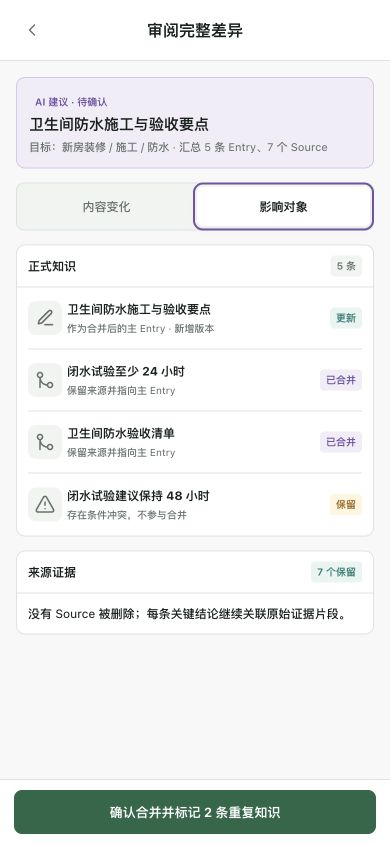
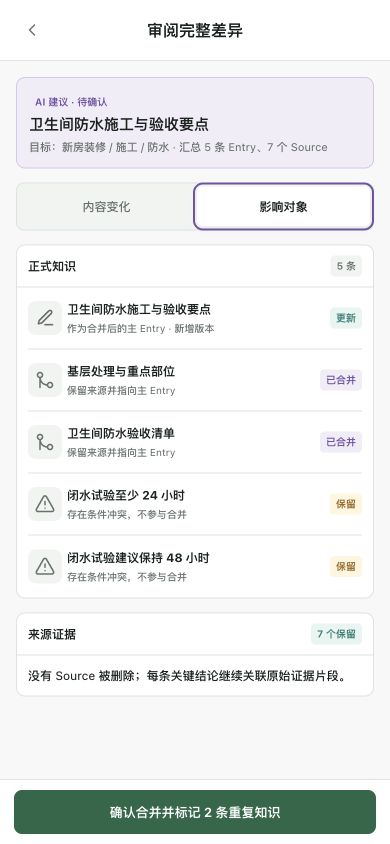
fix: 完善移动 Agent 原型交互细节

diff --git a/docs/prototypes/grove-mobile-agent-prototype.html b/docs/prototypes/grove-mobile-agent-prototype.html
@@ -368,6 +368,13 @@
     .entry-summary { padding: 10px 11px; border: 1px solid var(--g-border); border-radius: 8px; background: var(--g-bg); font-size: 12px; line-height: 20px; }
     .source-context { margin-top: 8px; color: var(--g-muted); font-size: 11px; line-height: 18px; }
     .source-meta { display: grid; gap: 7px; margin-top: 13px; padding-top: 12px; border-top: 1px solid var(--g-border); color: var(--g-muted); font-size: 11px; }
+    .source-pager { min-height: 44px; display: grid; grid-template-columns: 1fr auto 1fr; align-items: center; gap: 8px; margin-top: 10px; padding: 4px; border: 1px solid var(--g-border); border-radius: 9px; background: var(--g-bg); }
+    .source-pager[hidden] { display: none; }
+    .source-pager button { min-height: 36px; padding: 0 9px; border: 0; border-radius: 7px; background: transparent; color: var(--g-green); font-size: 12px; font-weight: 650; }
+    .source-pager button:first-child { justify-self: start; }
+    .source-pager button:last-child { justify-self: end; }
+    .source-pager button:disabled { color: var(--g-faint); }
+    .source-pager span { color: var(--g-muted); font-size: 11px; font-weight: 650; }
     .confirm-box { padding: 11px; border: 1px solid var(--g-border); border-radius: 9px; background: var(--g-bg); }
     .confirm-box strong { display: block; font-size: 13px; }
     .confirm-box p { margin-top: 4px; color: var(--g-muted); font-size: 11px; line-height: 18px; }
@@ -542,7 +549,7 @@
         <button class="nav-item" data-nav="knowledge"><span class="nav-glyph"><svg class="icon"><use href="#i-nav-knowledge"/></svg></span><span>知识</span></button>
       </nav>
 
-      <section class="overlay" id="diffOverlay" aria-label="审阅完整差异">
+      <section class="overlay" id="diffOverlay" role="dialog" aria-modal="true" aria-label="审阅完整差异" tabindex="-1">
         <header class="overlay-header"><button class="header-icon" data-close-overlay aria-label="返回对话"><svg class="icon" style="transform:rotate(180deg)"><use href="#i-chevron"/></svg></button><h1>审阅完整差异</h1><span></span></header>
         <div class="overlay-scroll">
           <div class="diff-summary"><span class="badge ai">AI 建议 · 待确认</span><h2>卫生间防水施工与验收要点</h2><p>目标：新房装修 / 施工 / 防水 · 汇总 5 条 Entry、7 个 Source</p></div>
@@ -555,8 +562,9 @@
           <div class="diff-panel" data-diff-panel="impact">
             <div class="diff-block"><div class="diff-block-head"><strong>正式知识</strong><span class="badge neutral">5 条</span></div><div style="padding:0 11px">
               <div class="impact-object"><span class="row-icon"><svg class="icon"><use href="#i-edit"/></svg></span><div><strong>卫生间防水施工与验收要点</strong><p>作为合并后的主 Entry · 新增版本</p></div><span class="badge confirmed">更新</span></div>
-              <div class="impact-object"><span class="row-icon"><svg class="icon"><use href="#i-merge"/></svg></span><div><strong>闭水试验至少 24 小时</strong><p>保留来源并指向主 Entry</p></div><span class="badge ai">已合并</span></div>
+              <div class="impact-object"><span class="row-icon"><svg class="icon"><use href="#i-merge"/></svg></span><div><strong>基层处理与重点部位</strong><p>保留来源并指向主 Entry</p></div><span class="badge ai">已合并</span></div>
               <div class="impact-object"><span class="row-icon"><svg class="icon"><use href="#i-merge"/></svg></span><div><strong>卫生间防水验收清单</strong><p>保留来源并指向主 Entry</p></div><span class="badge ai">已合并</span></div>
+              <div class="impact-object"><span class="row-icon"><svg class="icon"><use href="#i-alert"/></svg></span><div><strong>闭水试验至少 24 小时</strong><p>存在条件冲突，不参与合并</p></div><span class="badge risk">保留</span></div>
               <div class="impact-object"><span class="row-icon"><svg class="icon"><use href="#i-alert"/></svg></span><div><strong>闭水试验建议保持 48 小时</strong><p>存在条件冲突，不参与合并</p></div><span class="badge risk">保留</span></div>
             </div></div>
             <div class="diff-block"><div class="diff-block-head"><strong>来源证据</strong><span class="badge confirmed">7 个保留</span></div><div class="diff-line">没有 Source 被删除；每条关键结论继续关联原始证据片段。</div></div>
@@ -565,7 +573,7 @@
         <footer class="overlay-footer"><button class="button primary block" data-open-sheet="confirm">确认合并并标记 2 条重复知识</button></footer>
       </section>
 
-      <section class="overlay" id="historyOverlay" aria-label="对话历史">
+      <section class="overlay" id="historyOverlay" role="dialog" aria-modal="true" aria-label="对话历史" tabindex="-1">
         <header class="overlay-header"><button class="header-icon" data-close-overlay aria-label="关闭历史"><svg class="icon" style="transform:rotate(180deg)"><use href="#i-chevron"/></svg></button><h1>对话历史</h1><button class="header-icon" data-demo-toast="已创建一个新对话" aria-label="新建对话"><svg class="icon"><use href="#i-plus"/></svg></button></header>
         <div class="overlay-scroll" style="padding-bottom:24px">
           <div class="section-title" style="margin-top:0"><h2>今天</h2><span>同一个知识 Agent</span></div>
@@ -598,7 +606,7 @@
 
       <section class="sheet" id="sourceSheet" role="dialog" aria-modal="true" aria-label="引用与来源">
         <div class="sheet-handle"></div><div class="sheet-head"><h2 id="sourceTitle">引用与来源</h2><button class="sheet-close" data-close-sheet aria-label="关闭"><svg class="icon"><use href="#i-close"/></svg></button></div>
-        <div class="sheet-body"><span class="badge confirmed">对应正式 Entry</span><h3 id="sourceEntry" style="margin-top:8px;font-size:16px">闭水试验完成后再验收防水层</h3><p id="sourcePath" class="muted caption" style="margin-top:4px">新房装修 / 施工 / 防水</p><div class="source-section"><span class="source-section-label">ENTRY 总结</span><div class="entry-summary" id="sourceSummary">闭水期间同时观察水位和楼下顶面，再进入验收。</div></div><div class="source-section"><span class="source-section-label">SOURCE 原文</span><div class="source-quote" id="sourceQuote">“闭水期间应持续观察水位变化，并到楼下检查顶面是否出现渗漏。”</div><p class="source-context" id="sourceContext">上下文：该段位于“闭水验收”小节，前文记录了试验开始时间。</p></div><div class="source-meta"><span id="sourceFile">Source：防水验收记录.md</span><span>证据关系已由应用层校验 · 不包含 Agent 回答</span></div><div class="inline-actions"><button class="button" data-demo-toast="已打开完整 Entry">查看完整知识</button><button class="button ghost" data-close-sheet>关闭</button></div></div>
+        <div class="sheet-body"><span class="badge confirmed" id="sourceRelationBadge">对应正式 Entry</span><h3 id="sourceEntry" style="margin-top:8px;font-size:16px">闭水试验完成后再验收防水层</h3><p id="sourcePath" class="muted caption" style="margin-top:4px">新房装修 / 施工 / 防水</p><div class="source-section"><span class="source-section-label">ENTRY 总结</span><div class="entry-summary" id="sourceSummary">闭水期间同时观察水位和楼下顶面，再进入验收。</div></div><div class="source-section"><span class="source-section-label">SOURCE 原文</span><div class="source-quote" id="sourceQuote">“闭水期间应持续观察水位变化，并到楼下检查顶面是否出现渗漏。”</div><p class="source-context" id="sourceContext">上下文：该段位于“闭水验收”小节，前文记录了试验开始时间。</p></div><div class="source-meta"><span id="sourceFile">Source：防水验收记录.md</span><span>证据关系已由应用层校验 · 不包含 Agent 回答</span></div><div class="source-pager" id="sourcePager" hidden><button type="button" data-source-page="previous">上一来源</button><span id="sourcePageLabel">来源 1 / 2</span><button type="button" data-source-page="next">下一来源</button></div><div class="inline-actions"><button class="button" data-demo-toast="已打开完整 Entry">查看完整知识</button><button class="button ghost" data-close-sheet>关闭</button></div></div>
       </section>
 
       <section class="sheet" id="confirmSheet" role="dialog" aria-modal="true" aria-label="确认知识修改">
@@ -634,6 +642,11 @@
     let busy = false
     let toastTimer
     let keyboardTimer
+    let sheetTrigger = null
+    let overlayTrigger = null
+    let activeSourceContext = null
+    let activeSources = []
+    let activeSourceIndex = 0
 
     const icon = (name, extra = '') => `<svg class="icon ${extra}"><use href="#i-${name}"/></svg>`
     const scrollThread = () => requestAnimationFrame(() => { thread.scrollTop = thread.scrollHeight })
@@ -659,27 +672,58 @@
       <button class="followup-button operation" data-prompt="把能确定的部分整理成一条更完整的知识，旧的重复内容也处理一下"><span>把确定部分整理成知识，并处理重复内容</span>${icon('merge')}</button>
     </div></div>`
 
-    function closeSheets() {
+    const focusableSelector = 'button:not([disabled]):not([tabindex="-1"]), input:not([disabled]), textarea:not([disabled]), select:not([disabled]), [href], [tabindex]:not([tabindex="-1"])'
+    const activeLayer = () => document.querySelector('.sheet.open') || document.querySelector('.overlay.open')
+
+    function syncLayerIsolation() {
+      const sheet = document.querySelector('.sheet.open')
+      const overlay = document.querySelector('.overlay.open')
+      document.querySelectorAll('.app-header, .screens, .bottom-nav').forEach(element => { element.inert = Boolean(sheet || overlay) })
+      document.querySelectorAll('.overlay').forEach(element => { element.inert = Boolean(sheet || (overlay && element !== overlay)) })
+      document.querySelectorAll('.sheet').forEach(element => { element.inert = Boolean(sheet && element !== sheet) })
+    }
+
+    function restoreFocus(trigger) {
+      if (trigger?.isConnected && !trigger.closest('[inert]')) trigger.focus({ preventScroll: true })
+    }
+
+    function closeSheets({ restore = true } = {}) {
       document.querySelectorAll('.sheet.open').forEach(sheet => sheet.classList.remove('open'))
       scrim.classList.remove('open')
+      syncLayerIsolation()
+      if (restore) restoreFocus(sheetTrigger)
+      sheetTrigger = null
     }
 
     function openSheet(name) {
-      closeSheets()
+      const trigger = document.activeElement
+      closeSheets({ restore: false })
       const sheet = document.getElementById(`${name}Sheet`)
       if (!sheet) return
+      sheetTrigger = trigger
       scrim.classList.add('open')
       sheet.classList.add('open')
+      syncLayerIsolation()
       sheet.querySelector('button, input, textarea')?.focus({ preventScroll: true })
     }
 
     function openOverlay(name) {
-      document.querySelectorAll('.overlay.open').forEach(overlay => overlay.classList.remove('open'))
+      const trigger = document.activeElement
+      closeOverlays({ restore: false })
       const overlay = document.getElementById(`${name}Overlay`)
-      if (overlay) overlay.classList.add('open')
+      if (!overlay) return
+      overlayTrigger = trigger
+      overlay.classList.add('open')
+      syncLayerIsolation()
+      overlay.querySelector(focusableSelector)?.focus({ preventScroll: true })
     }
 
-    function closeOverlays() { document.querySelectorAll('.overlay.open').forEach(overlay => overlay.classList.remove('open')) }
+    function closeOverlays({ restore = true } = {}) {
+      document.querySelectorAll('.overlay.open').forEach(overlay => overlay.classList.remove('open'))
+      syncLayerIsolation()
+      if (restore) restoreFocus(overlayTrigger)
+      overlayTrigger = null
+    }
 
     async function runProcess({ id, eyebrow, title, completeTitle, steps, summary }) {
       add(`${agentLabel()}<article class="card process-card" id="${id}"><div class="card-body"><div class="card-head"><div><div class="eyebrow">${icon('search')}${eyebrow}</div><h2>${title}</h2></div><span class="badge neutral">进行中</span></div><div class="process-list">${steps.map((step, index) => `<div class="process-step ${index === 0 ? 'current' : ''}" data-process-step="${index}"><span class="step-mark">${icon('check')}</span><span>${step}</span></div>`).join('')}</div><div class="process-summary">${icon('circle-check')}${summary}</div>${scopeStamp()}</div></article>`)
@@ -759,7 +803,7 @@
       stage = 'clarifying'
       add(`${agentLabel()}<article class="card process-card" id="mergeProcess"><div class="card-body"><div class="process-summary" style="display:flex">${icon('search')}正在“${currentScope}”中定位重复 Entry 与来源关系…</div>${scopeStamp()}</div></article>`)
       await wait(750)
-      document.getElementById('mergeProcess').outerHTML = `<article class="card"><div class="card-body"><div class="card-head"><div><div class="eyebrow">${icon('alert')}需要消除一个歧义</div><h2>冲突内容不能作为重复项处理</h2></div><span class="badge risk">请确认</span></div><p class="answer-intro">我找到 3 条可以合并的重复知识，以及 2 条包含条件冲突的知识。建议只合并确定部分，保留冲突双方。</p>${scopeStamp()}<div class="choice-grid"><button class="choice recommended" data-clarify="recommended"><strong>按建议处理</strong><span>合并 3 条重复知识，保留 2 条冲突知识</span></button><button class="choice" data-clarify="manual"><strong>重新选择影响对象</strong><span>逐条决定哪些知识参与合并</span></button></div></div></article>`
+      document.getElementById('mergeProcess').outerHTML = `<article class="card"><div class="card-body"><div class="card-head"><div><div class="eyebrow">${icon('alert')}需要消除一个歧义</div><h2>冲突内容不能作为重复项处理</h2></div><span class="badge risk">请确认</span></div><p class="answer-intro">我找到 3 条内容高度重合的知识：其中 1 条作为主 Entry 更新，另外 2 条标记为“已合并”；还有 2 条包含条件冲突的知识，建议保留双方。</p>${scopeStamp()}<div class="choice-grid"><button class="choice recommended" data-clarify="recommended"><strong>按建议处理</strong><span>更新 1 条主知识，合并 2 条重复知识，保留 2 条冲突知识</span></button><button class="choice" data-clarify="manual"><strong>重新选择影响对象</strong><span>逐条决定哪些知识参与合并</span></button></div></div></article>`
       scrollThread()
       busy = false
     }
@@ -899,7 +943,10 @@
 
     const sourceData = {
       base: { entry: '基层处理与重点部位', path: '新房装修 / 施工 / 防水', file: '施工交底截图', summary: '阴阳角和管根需在大面施工前先做加强处理。', quote: '“基层清理完成后，阴阳角、管根等位置先做加强处理，再进行大面施工。”', context: '上下文：截图的上一项是“基层含水状态”，下一项是“第一遍涂刷”。' },
-      detail: { entry: '易渗漏位置检查', path: '新房装修 / 施工 / 防水', file: '监理检查清单.pdf · 第 3 页', summary: '地漏、管根、门槛石附近是验收时需重点复查的位置。', quote: '“地漏、管根和门槛石周边应逐项检查，发现空鼓、破损时先修补；修补完成后再进行下一步验收。”', context: '上下文：该段位于“节点复查”小节，后文是检查记录的签字要求。' },
+      detail: { entry: '易渗漏位置检查', path: '新房装修 / 施工 / 防水', summary: '地漏、管根、门槛石附近是验收时需重点复查的位置。', sources: [
+        { file: '监理检查清单.pdf · 第 3 页', quote: '“地漏、管根和门槛石周边应逐项检查，发现空鼓、破损时先修补；修补完成后再进行下一步验收。”', context: '上下文：该段位于“节点复查”小节，后文是检查记录的签字要求。' },
+        { file: '防水验收记录.md · 易渗漏位置', quote: '“门槛石内侧、地漏周边与管根位置已逐项复查；地漏周边补刷完成后再次检查，未见破损。”', context: '上下文：该段位于现场验收记录，前文记录了补刷时间，后文附有检查人签字。' }
+      ] },
       close: { entry: '闭水试验完成后再验收防水层', path: '新房装修 / 施工 / 防水', file: '防水验收记录.md', summary: '闭水期间同时观察水位和楼下顶面，再进入验收。', quote: '“闭水期间应持续观察水位变化，并到楼下检查顶面是否出现渗漏。”', context: '上下文：该段位于“闭水验收”小节，前文记录了试验开始时间。' },
       close24: { entry: '闭水试验至少观察 24 小时', path: '新房装修 / 施工 / 防水', file: '防水验收记录.md', summary: '24 小时是该次验收记录中的最低观察时间。', quote: '“本次闭水自 6 月 18 日 10:00 开始，至少观察 24 小时，并复查楼下顶面。”', context: '上下文：这是单次项目验收记录，未标注防水材料型号。' },
       close48: { entry: '闭水试验建议观察 48 小时', path: '新房装修 / 施工 / 防水', file: '监理复查清单.pdf · 第 5 页', summary: '监理复查清单建议将闭水观察延长至 48 小时。', quote: '“条件允许时，建议闭水保持 48 小时后再进行复查。”', context: '上下文：清单未说明“条件允许”具体指材料、工期还是环境条件。' },
@@ -909,14 +956,29 @@
       counter: { entry: '门槛石二次施工后的渗漏复盘', path: '新房装修 / 验收 / 问题复盘', file: '卫生间渗漏复盘.md', summary: '闭水通过后的二次施工仍可能破坏局部防水层。', quote: '“首次闭水 24 小时楼下未见异常。门槛石安装后出现局部渗水，拆检发现二次施工破坏了门口防水层。”', context: '上下文：复盘结论要求二次施工后重新检查受影响部位。' }
     }
 
+    function renderSource() {
+      if (!activeSourceContext || !activeSources.length) return
+      const source = activeSources[activeSourceIndex]
+      const count = activeSources.length
+      document.getElementById('sourceRelationBadge').textContent = count > 1 ? `对应正式 Entry · ${count} 个来源` : '对应正式 Entry'
+      document.getElementById('sourceEntry').textContent = activeSourceContext.entry
+      document.getElementById('sourcePath').textContent = activeSourceContext.path
+      document.getElementById('sourceSummary').textContent = activeSourceContext.summary
+      document.getElementById('sourceFile').textContent = `Source：${source.file}`
+      document.getElementById('sourceQuote').textContent = source.quote
+      document.getElementById('sourceContext').textContent = source.context
+      const pager = document.getElementById('sourcePager')
+      pager.hidden = count < 2
+      document.getElementById('sourcePageLabel').textContent = `来源 ${activeSourceIndex + 1} / ${count}`
+      pager.querySelector('[data-source-page="previous"]').disabled = activeSourceIndex === 0
+      pager.querySelector('[data-source-page="next"]').disabled = activeSourceIndex === count - 1
+    }
+
     function showSource(key) {
-      const data = sourceData[key] || sourceData.close
-      document.getElementById('sourceEntry').textContent = data.entry
-      document.getElementById('sourcePath').textContent = data.path
-      document.getElementById('sourceSummary').textContent = data.summary
-      document.getElementById('sourceFile').textContent = `Source：${data.file}`
-      document.getElementById('sourceQuote').textContent = data.quote
-      document.getElementById('sourceContext').textContent = data.context
+      activeSourceContext = sourceData[key] || sourceData.close
+      activeSources = activeSourceContext.sources || [activeSourceContext]
+      activeSourceIndex = 0
+      renderSource()
       openSheet('source')
     }
 
@@ -961,6 +1023,13 @@
       }
       if (target.matches('[data-close-overlay]')) closeOverlays()
       if (target.dataset.source) showSource(target.dataset.source)
+      if (target.dataset.sourcePage) {
+        const offset = target.dataset.sourcePage === 'next' ? 1 : -1
+        activeSourceIndex = Math.max(0, Math.min(activeSources.length - 1, activeSourceIndex + offset))
+        renderSource()
+        const preferredDirection = target.dataset.sourcePage === 'next' ? 'previous' : 'next'
+        document.querySelector(`[data-source-page="${preferredDirection}"]`)?.focus({ preventScroll: true })
+      }
       if (target.dataset.entry) showEntry(target.dataset.entry)
       if (target.matches('[data-confirm-execute]')) executeChange()
       if (target.matches('[data-confirm-undo]')) confirmUndo()
@@ -1055,7 +1124,28 @@
     })
 
     document.addEventListener('keydown', event => {
-      if (event.key === 'Escape') { closeSheets(); closeOverlays() }
+      const layer = activeLayer()
+      if (event.key === 'Escape') {
+        if (document.querySelector('.sheet.open')) closeSheets()
+        else if (document.querySelector('.overlay.open')) closeOverlays()
+        return
+      }
+      if (event.key !== 'Tab' || !layer) return
+      const focusable = [...layer.querySelectorAll(focusableSelector)].filter(element => !element.closest('[hidden]'))
+      if (!focusable.length) {
+        event.preventDefault()
+        layer.focus({ preventScroll: true })
+        return
+      }
+      const first = focusable[0]
+      const last = focusable[focusable.length - 1]
+      if (event.shiftKey && document.activeElement === first) {
+        event.preventDefault()
+        last.focus({ preventScroll: true })
+      } else if (!event.shiftKey && document.activeElement === last) {
+        event.preventDefault()
+        first.focus({ preventScroll: true })
+      }
     })
   </script>
 </body>

diff --git a/artifacts/mobile-agent-prototype/visual-validation.md b/artifacts/mobile-agent-prototype/visual-validation.md
@@ -34,12 +34,13 @@
 - 键盘态：输入框聚焦后显示 390px 平台中性键盘示意，输入区移动至键盘上方，底部导航下移隐藏；字母、空格、标点、退格、发送和收起均可点击；发送后不主动失焦，只有收起键盘或点击输入区外部才恢复。
 - 范围切换：选择器仅包含 Workspace 全部知识和 4 个项目，只有当前范围显示勾选，并通过 `role="radio"` + `aria-checked` 表达非颜色选中状态。对话中切换后插入范围分隔和工作集失效提示；下一问已实际重新检索。
 - 连续提问：“为什么时长不一致”不增加全项目检索卡；“南方潮湿”显示潮湿、返潮与沿海环境补查；“相反经验”显示不适用、例外与失败经验检索，并对未找到的观点保留非绝对表达。
-- 来源证据：「查看第二条的来源原文」直接打开证据 Sheet，清楚分开「对应正式 Entry」、「Entry 总结」与「Source 原文」，同时展示目录路径、Source 名称和必要上下文。
-- 修改边界：从只读回答可继续进入现有合并流程；范围切换后旧澄清按钮、差异入口和确认执行入口立即失效。「全部知识」下即使完成只读重检索，也会先追问目标项目，不生成跨项目合并方案。
+- 来源证据：「查看第二条的来源原文」直接打开证据 Sheet，清楚分开「对应正式 Entry」、「Entry 总结」与「Source 原文」，同时展示目录路径、Source 名称和必要上下文；当 Entry 有 2 个来源时显示「来源 1 / 2」并可逐条切换。
+- 修改边界：从只读回答可继续进入现有合并流程；影响对象明确列出 1 条主 Entry 更新、2 条重复知识合并和 2 条冲突知识保留，摘要、列表、确认与回执数量一致。范围切换后旧澄清按钮、差异入口和确认执行入口立即失效。「全部知识」下即使完成只读重检索，也会先追问目标项目，不生成跨项目合并方案。
 - 语义检查：Agent 综合回答使用「基于 6 条正式知识」等表达，不再将回答标记为「正式知识」；正式 Entry 详情与知识列表仍保留「正式知识」。AI 草稿使用「AI 建议 · 待确认」。
 - 会话历史：首次与只读回答阶段显示「已回答」；用户选择合并策略并实际生成草稿后才更新为「已生成合并建议」。
+- 焦点与弹层：Bottom Sheet 和全屏审阅层打开时背景进入 `inert`，焦点进入当前层并在层内循环；嵌套确认关闭后先返回全屏审阅触发按钮，退出全屏层后再返回对话触发按钮。
 - 图标对比：三组原创 SVG 均可切换到 390px 实际尺寸预览；推荐组已用于主原型，图标放大至 24px，标签放大至 11.5px，底栏选中态无背景和短横线。
 - 功能走查：首次问答、复用已读取 Entry 解释、Source 原文、新条件补检索、反例检索、范围切换后继续提问、只读回答进入修改、差异确认、执行回执、撤销、会话历史、键盘展开/收起与失败重试全部通过。
 - 控制台：无 error 或 warning。
-- 本轮截图：`readonly-followups-390.png`、`source-evidence-390.png`、`scope-refresh-390.png`、`keyboard-continuous-360.png`、`receipt-continuous-412.png`。既有基线截图继续保留。
+- 本轮截图：`readonly-followups-390.png`、`source-evidence-390.png`、`diff-390.png`、`scope-refresh-390.png`、`keyboard-continuous-360.png`、`receipt-continuous-412.png`。既有基线截图继续保留。
 - 剩余差异：无未解释的视觉偏差。
